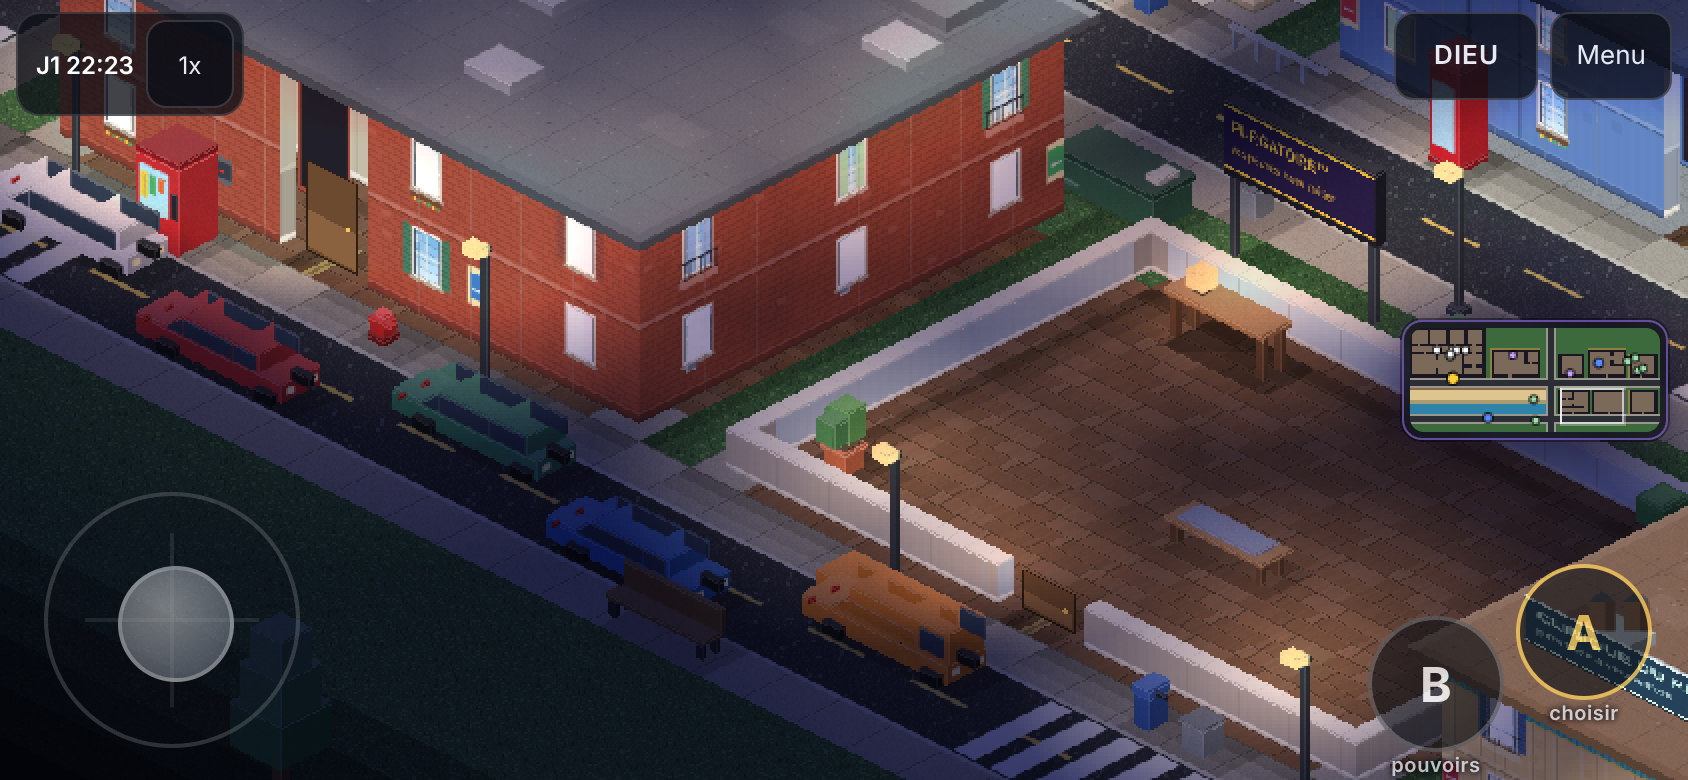
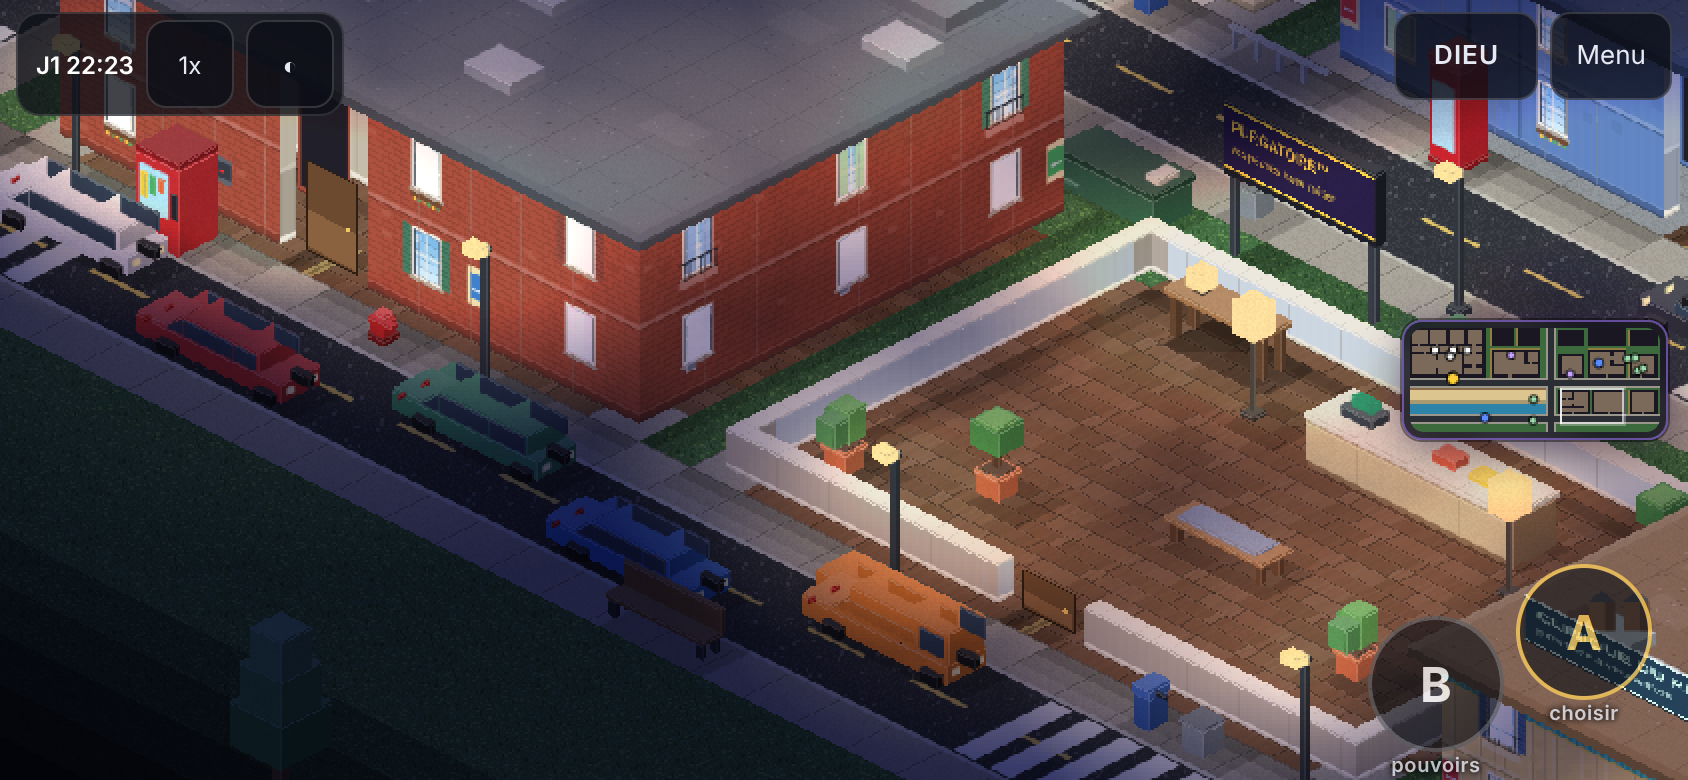
Noria Beach 2.0 : hôtel 5 étages (balcons filants, rooftop avec piscine, néon or), bar devenu ZINC CLUB (néons rose/cyan, ambiance violette), îlots d'arrière-plan, mode Dieu sans joystick + masquage de l'interface
Claude-Session: https://claude.ai/code/session_01TgHL2ERFFt3nTP8cEL1RNQ

diff --git a/src/sim/layout.ts b/src/sim/layout.ts
@@ -24,17 +24,23 @@ const HOUSE: string[] = [
 export const W = 96;
 export const H = 40;
 /** Bâtiments : murs hauts sur les bords nord et ouest (vus de dos), bas ailleurs ; front = hauteur de façade. */
-export interface Building { name: string; x0: number; y0: number; x1: number; y1: number; front: number; kind?: 'home' | 'bar' | 'store' | 'police' | 'cafe' | 'apartment'; solid?: boolean; /** coque : bâtiment ancien dont la carte intérieure est fixe mais qui reçoit façade et toit */ shell?: boolean; h?: number; wall?: 'brick' | 'concrete' | 'beige' | 'blue' | 'cream'; roof?: string; title?: string; door?: [number, number] }
+export interface Building { name: string; x0: number; y0: number; x1: number; y1: number; front: number; kind?: 'home' | 'bar' | 'store' | 'police' | 'cafe' | 'apartment'; solid?: boolean; /** coque : bâtiment ancien dont la carte intérieure est fixe mais qui reçoit façade et toit */ shell?: boolean; /** identité : hôtel (étages, balcons, rooftop) ou club (néons) */ style?: 'hotel' | 'club'; /** îlot décoratif : façade et toit, pas d'entrée (la ville continue) */ decor?: boolean; h?: number; wall?: 'brick' | 'concrete' | 'beige' | 'blue' | 'cream'; roof?: string; title?: string; door?: [number, number] }
 export const BUILDINGS: Building[] = [
   { name: 'house', x0: 0, y0: 0, x1: 28, y1: 18, front: 24, kind: 'home', shell: true, h: 96, wall: 'cream', roof: '#b4573f', title: 'FOYER BONHEUR™', door: [16, 18] },
-  { name: 'bar', x0: 31, y0: 8, x1: 49, y1: 18, front: 44, kind: 'bar', shell: true, h: 84, wall: 'brick', roof: '#4a2c3a', title: 'LE ZINC', door: [38, 18] },
+  { name: 'bar', x0: 31, y0: 8, x1: 49, y1: 18, front: 44, kind: 'bar', shell: true, h: 84, wall: 'brick', roof: '#4a2c3a', title: 'ZINC CLUB', door: [38, 18], style: 'club' },
   // --- Centre-ville (V open world) : façades pleines, toits, murs qui s'abaissent quand on entre
   { name: 'store', x0: 57, y0: 10, x1: 66, y1: 18, front: 64, kind: 'store', solid: true, h: 84, wall: 'cream', roof: '#c9573f', title: 'MINI-MARCHÉ', door: [61, 18] },
   { name: 'police', x0: 68, y0: 8, x1: 82, y1: 18, front: 80, kind: 'police', solid: true, h: 112, wall: 'blue', roof: '#3c4d6e', title: 'COMMISSARIAT', door: [75, 18] },
   { name: 'cafe', x0: 84, y0: 10, x1: 94, y1: 18, front: 66, kind: 'cafe', solid: true, h: 84, wall: 'beige', roof: '#8a5a3a', title: 'CAFÉ CULPA', door: [88, 18] },
   { name: 'flats1', x0: 57, y0: 24, x1: 68, y1: 32, front: 100, kind: 'apartment', solid: true, h: 124, wall: 'brick', roof: '#6a6f7a', title: 'LES MOUETTES™', door: [62, 32] },
-  { name: 'flats2', x0: 70, y0: 24, x1: 82, y1: 32, front: 110, kind: 'apartment', solid: true, h: 136, wall: 'concrete', roof: '#5a606c', title: 'RÉSIDENCE ORION', door: [76, 32] },
+  { name: 'flats2', x0: 70, y0: 24, x1: 82, y1: 32, front: 150, kind: 'apartment', solid: true, h: 176, wall: 'cream', roof: '#2c3a4e', title: 'HÔTEL PACIFICA', door: [76, 32], style: 'hotel' },
   { name: 'flats3', x0: 84, y0: 24, x1: 94, y1: 32, front: 96, kind: 'apartment', solid: true, h: 112, wall: 'beige', roof: '#7a5a4a', title: 'LES TILLEULS', door: [89, 32] },
+  // --- îlots d'arrière-plan : la ville continue derrière les façades (pas d'entrée, murs pleins)
+  { name: 'blockN1', x0: 31, y0: 0, x1: 39, y1: 6, front: 90, kind: 'apartment', solid: true, decor: true, h: 100, wall: 'brick', roof: '#5a4a52' },
+  { name: 'blockN2', x0: 41, y0: 0, x1: 49, y1: 6, front: 120, kind: 'apartment', solid: true, decor: true, h: 132, wall: 'beige', roof: '#4a5568' },
+  { name: 'blockE1', x0: 57, y0: 1, x1: 66, y1: 6, front: 110, kind: 'apartment', solid: true, decor: true, h: 120, wall: 'concrete', roof: '#5a606c' },
+  { name: 'blockE2', x0: 68, y0: 0, x1: 82, y1: 6, front: 150, kind: 'apartment', solid: true, decor: true, h: 160, wall: 'cream', roof: '#38445a' },
+  { name: 'blockE3', x0: 84, y0: 1, x1: 94, y1: 6, front: 96, kind: 'apartment', solid: true, decor: true, h: 108, wall: 'brick', roof: '#6a4a40' },
 ];
 export const OUTDOOR = 'srgynzq';
 /** Pièces des nouveaux bâtiments : M épicerie, Q commissariat, C cellule, T café, N/O/P halls d'immeubles (une lettre par pièce : l'éclairage se calcule par lettre). */
@@ -77,7 +83,7 @@ function applyCity(g: string[][]) {
   // bâtiments : murs sur le pourtour, sol d'une lettre unique, porte « X » sur la façade sud
   for (const b of BUILDINGS) {
     if (!b.solid) continue; const room = ({ store: 'M', police: 'Q', cafe: 'T' } as Record<string, string>)[b.kind!] ?? ({ flats1: 'N', flats2: 'O', flats3: 'P' } as Record<string, string>)[b.name];
-    rect(b.x0, b.y0, b.x1, b.y1, '#'); rect(b.x0 + 1, b.y0 + 1, b.x1 - 1, b.y1 - 1, room); if (b.door) set(b.door[0], b.door[1], 'X');
+    rect(b.x0, b.y0, b.x1, b.y1, '#'); if (!b.decor) rect(b.x0 + 1, b.y0 + 1, b.x1 - 1, b.y1 - 1, room); if (b.door) set(b.door[0], b.door[1], 'X');
   }
   // « Les Mouettes » : le rez-de-chaussée est un appartement habitable (séjour-cuisine j, chambre m, salle de bains v) derrière un couloir d'entrée N
   rect(58, 30, 67, 30, '#'); set(67, 30, 'X'); rect(62, 25, 62, 29, '#'); set(62, 28, 'X'); rect(58, 27, 61, 27, '#'); set(60, 27, 'X');
@@ -134,8 +140,8 @@ export function furniture(): FurnPlacement[] {
   // --- Rue, trottoirs, jardin
   for (const x of [5, 12, 22, 29, 37, 45]) f.push(P('streetlamp', x, 22));
   f.push(P('street_bench', 8, 22), P('street_bench', 26, 22), P('street_bench', 41, 22), P('bin', 20, 22), P('bin', 34, 22), P('bar_sign', 40, 19, { id: 'bar_sign' }));
-  for (const [x, y] of [[30, 2], [30, 6], [30, 12], [30, 16], [51, 3], [51, 9], [51, 15], [34, 3], [40, 5], [46, 2]]) f.push(P('tree', x, y, { style: x + y }));
-  for (const [x, y] of [[29, 9], [29, 14], [50, 6], [50, 12], [35, 6], [43, 4], [3, 23], [10, 23], [18, 23], [27, 23], [35, 23], [44, 23], [50, 23]]) f.push(P('bush', x, y, { style: x * 3 + y }));
+  for (const [x, y] of [[30, 2], [30, 6], [30, 12], [30, 16], [51, 3], [51, 9], [51, 15], [29, 3], [29, 6], [50, 3]]) f.push(P('tree', x, y, { style: x + y }));
+  for (const [x, y] of [[29, 9], [29, 14], [50, 6], [50, 12], [29, 12], [50, 9], [3, 23], [10, 23], [18, 23], [27, 23], [35, 23], [44, 23], [50, 23]]) f.push(P('bush', x, y, { style: x * 3 + y }));
   // --- Épicerie (x58..65, y11..17) : rayons, caisse
   f.push(P('shelf3', 58, 11, { id: 'shelf_a' }), P('shelf4', 62, 11, { id: 'shelf_b' }), P('shelf3', 59, 14, { id: 'shelf_c' }), P('shop_counter', 62, 16, { id: 'shop_counter' }), P('plant', 65, 17, { style: 1 }), P('bin', 58, 17));
   // --- Commissariat (x69..81, y9..17) : accueil, bureaux, cellule
@@ -167,6 +173,8 @@ export function furniture(): FurnPlacement[] {
   f.push(P('hydrant', 59, 19), P('mailbox', 65, 19), P('vending', 78, 19), P('phone_booth', 71, 19), P('kiosk', 84, 19), P('planter', 91, 19, { style: 1 }), P('bike_rack', 67, 19), P('planter', 57, 19, { style: 3 }));
   f.push(P('billboard', 71, 23, { style: 0 }), P('billboard', 85, 23, { style: 4 }), P('billboard', 60, 23, { style: 2 }), P('dumpster', 68, 23), P('billboard', 13, 23, { style: 1 }), P('billboard', 46, 23, { style: 5 }));
   [[62, 35, 0], [70, 35, 1], [86, 35, 2], [66, 34, 3], [90, 34, 5], [74, 34, 6], [58, 34, 4]].forEach(([x, y, st]) => f.push(P('car_p', x, y, { style: st })));
+  // hall de l'hôtel (ajouté en fin de liste : ne décale aucun meuble des anciennes parties)
+  f.push(P('shop_counter', 76, 26, { id: 'hotel_desk' }), P('floor_lamp', 74, 26), P('floor_lamp', 80, 27), P('plant', 73, 30, { style: 1 }), P('plant', 80, 30, { style: 0 }));
   f.push(P('hydrant', 64, 33), P('mailbox', 79, 33), P('planter', 85, 33, { style: 0 }), P('vending', 60, 33), P('hydrant', 92, 36));
   return f;
 }

diff --git a/src/art/city.ts b/src/art/city.ts
@@ -23,7 +23,7 @@ export function adCanvas(ad: number, w = 128, h = 40): HTMLCanvasElement {
 /** Toit d'un bâtiment de w x d cases : retourne le canevas et le décalage de son coin haut-gauche par rapport à toScreen(x0, y0) (au niveau du sol, avant d'ajouter la hauteur). */
 export function roofCanvas(w: number, d: number, colorHex: string, seed: number, style: RoofStyle = 'flat', extras = 'ac', ad = -1): { cv: HTMLCanvasElement; ox: number; oy: number } {
   const key = `${w}|${d}|${colorHex}|${seed}|${style}|${extras}|${ad}`; const hit = cache.get(key); if (hit) return hit;
-  const base = hex(colorHex); const PAD = style === 'hip' ? Math.min(w, d) * 9 + 8 : 8 + (ad >= 0 ? 52 : 0) + (extras === 'mast' ? 30 : 0) + (extras === 'tank' ? 18 : 0);
+  const base = hex(colorHex); const PAD = style === 'hip' ? Math.min(w, d) * 9 + 8 : 8 + (ad >= 0 ? 52 : 0) + (extras === 'mast' ? 30 : 0) + (extras === 'tank' ? 18 : 0) + (extras === 'terrace' ? 14 : 0);
   const P = (x: number, y: number, z = 0) => ({ x: (x - y) * 32 + d * 32 + 4, y: (x + y) * 16 + 4 + PAD - z });
   const cv = canvas((w + d) * 32 + 8, (w + d) * 16 + 14 + PAD); const g = ctx2(cv);
   const lo = shade(base, -0.28), hi = shade(base, 0.16), mid = base;
@@ -65,6 +65,14 @@ export function roofCanvas(w: number, d: number, colorHex: string, seed: number,
   for (let k = 0; k < n; k++) { const bx = 0.8 + hash2(seed + k, 3) * (w - 2.2), by = 0.8 + hash2(seed + k, 7) * (d - 2.2); box(bx, by, 0.9, 0.7, 7, c(0.7, 0.72, 0.76)); line(g, { x: P(bx, by + 0.7).x, y: P(bx, by + 0.7).y - 7 }, { x: P(bx + 0.9, by + 0.7).x, y: P(bx + 0.9, by + 0.7).y - 7 }, c(0.95, 0.96, 0.98), 0.5); }
   box(w - 2.4, 0.7, 1.3, 1.2, 9, shade(mid, 0.1)); // sortie d'escalier
   if (extras === 'tank') { const t = P(1.6, d - 2.2); for (let k = 0; k < 2; k++) { const tx = t.x + k * 22, ty = t.y; poly(g, [{ x: tx - 8, y: ty }, { x: tx + 8, y: ty }, { x: tx + 8, y: ty - 18 }, { x: tx - 8, y: ty - 18 }], c(0.55, 0.38, 0.28)); poly(g, [{ x: tx + 2, y: ty }, { x: tx + 8, y: ty }, { x: tx + 8, y: ty - 18 }, { x: tx + 2, y: ty - 18 }], c(0.4, 0.27, 0.2)); poly(g, [{ x: tx - 9, y: ty - 18 }, { x: tx, y: ty - 25 }, { x: tx + 9, y: ty - 18 }], c(0.3, 0.3, 0.34)); } }
+  if (extras === 'terrace') { // rooftop d'hôtel : deck bois, piscine, parasols, transats, garde-corps vitré
+    const deck = c(0.62, 0.46, 0.3); poly(g, [P(0.6, 0.6), P(w - 0.6, 0.6), P(w - 0.6, d - 0.6), P(0.6, d - 0.6)], deck);
+    for (let i = 1; i < w - 1; i++) line(g, P(i, 0.6), P(i, d - 0.6), shade(deck, -0.14), 0.5);
+    const px0 = 1.6, py0 = 1.4, pw = Math.min(5, w - 4), pd = Math.min(3, d - 3); poly(g, [P(px0 - 0.2, py0 - 0.2), P(px0 + pw + 0.2, py0 - 0.2), P(px0 + pw + 0.2, py0 + pd + 0.2), P(px0 - 0.2, py0 + pd + 0.2)], c(0.9, 0.92, 0.95)); poly(g, [P(px0, py0), P(px0 + pw, py0), P(px0 + pw, py0 + pd), P(px0, py0 + pd)], c(0.25, 0.75, 0.9));
+    for (let k = 0; k < 4; k++) { const a = P(px0 + 0.4 + k * (pw / 4), py0 + 0.4 + (k % 2) * 0.8); line(g, a, { x: a.x + 5, y: a.y + 1 }, c(0.8, 0.95, 1), 0.7); }
+    for (let k = 0; k < 3; k++) { const u = P(w - 2.6 + (k % 2) * 0.1, 1.4 + k * 1.3); line(g, u, { x: u.x, y: u.y - 16 }, c(0.9, 0.9, 0.9)); poly(g, [{ x: u.x - 11, y: u.y - 16 }, { x: u.x + 11, y: u.y - 16 }, { x: u.x + 6, y: u.y - 22 }, { x: u.x - 6, y: u.y - 22 }], [c(0.95, 0.4, 0.4), c(0.98, 0.8, 0.35), c(0.35, 0.75, 0.85)][k]); const l = P(w - 3.8, 1.4 + k * 1.3); poly(g, [{ x: l.x - 8, y: l.y }, { x: l.x + 8, y: l.y + 3 }, { x: l.x + 8, y: l.y - 1 }, { x: l.x - 8, y: l.y - 4 }], c(0.96, 0.96, 0.98)); }
+    line(g, P(0.2, d - 0.2), P(w - 0.2, d - 0.2), c(0.6, 0.9, 0.95)); line(g, P(w - 0.2, 0.2), P(w - 0.2, d - 0.2), c(0.6, 0.9, 0.95)); line(g, P(w / 2 - 2, d - 0.5), P(w / 2 + 2, d - 0.5), c(1, 0.45, 0.8));
+  }
   if (extras === 'mast') { const m = P(w * 0.5, d * 0.5); line(g, m, { x: m.x, y: m.y - 38 }, c(0.8, 0.82, 0.86)); for (let k = 0; k < 3; k++) line(g, { x: m.x - 8 + k, y: m.y - 14 - k * 8 }, { x: m.x + 8 - k, y: m.y - 14 - k * 8 }, c(0.8, 0.82, 0.86)); poly(g, [{ x: m.x - 1, y: m.y - 42 }, { x: m.x + 2, y: m.y - 42 }, { x: m.x + 2, y: m.y - 39 }, { x: m.x - 1, y: m.y - 39 }], c(0.95, 0.2, 0.2)); }
   if (ad >= 0) { // panneau publicitaire sur pieds, face sud-ouest
     const bw = Math.min(5, w - 3), a0 = P(1.4, d - 0.9), a1 = P(1.4 + bw, d - 0.9); const hb = 28, z0 = 12; const ac = adCanvas(ad, 128, 40);

diff --git a/src/art/facade.ts b/src/art/facade.ts
@@ -6,7 +6,7 @@ const c = (r: number, g: number, b: number): C => [r, g, b];
 export type Material = 'brick' | 'concrete' | 'plaster' | 'cream' | 'blue' | 'deco' | 'seaside';
 export type Pane = 'none' | 'shop' | 'win';
 export interface ExtSpec {
-  m: Material; k: 'store' | 'cafe' | 'bar' | 'police' | 'apartment' | 'home';
+  m: Material; k: 'store' | 'cafe' | 'bar' | 'police' | 'apartment' | 'home' | 'hotel';
   pane: Pane; v: number; /** variante (déterministe par cellule) */
   floors: number; /** nombre d'étages visibles */
   poster: number; /** 0 = rien ; sinon motif d'affiche / tag */
@@ -22,7 +22,7 @@ const CURT: C[] = [c(0.95, 0.9, 0.78), c(0.86, 0.5, 0.5), c(0.6, 0.72, 0.9), c(0
 
 /** Hauteur de la bande de sol (plinthe/vitrine) et des étages. */
 export function storeys(h: number, k: ExtSpec['k']) {
-  const floors = k === 'apartment' ? (h >= 130 ? 3 : 2) : k === 'home' ? (h >= 90 ? 2 : 1) : k === 'police' ? (h >= 100 ? 2 : 1) : 1;
+  const floors = k === 'hotel' ? (h >= 160 ? 5 : 4) : k === 'apartment' ? (h >= 130 ? 3 : 2) : k === 'home' ? (h >= 90 ? 2 : 1) : k === 'police' ? (h >= 100 ? 2 : 1) : 1;
   const top = h - 8; const sh = (top - 6) / floors; return { floors, sh };
 }
 
@@ -116,12 +116,18 @@ export function drawExterior(fp: FP, h: number, base: C, spec: ExtSpec, night = 
   for (let f = 1; f < floors; f++) { const z = 6 + f * sh - 3; fp(0, 1, z, z + 3, shade(base, 0.2)); fp(0, 1, z - 1, z, shade(base, -0.28)); }
   fp(0, 1, h - 7, h - 3, shade(base, 0.2)); fp(0, 1, h - 3, h, shade(base, 0.32)); fp(0, 1, h - 8, h - 7, shade(base, -0.3));
   for (let d = 0; d < 8; d++) fp(d / 8 + 0.01, d / 8 + 0.06, h - 10, h - 8, shade(base, 0.12));
+  // néons de façade : club (rose / cyan) et hôtel (or)
+  if (spec.k === 'bar') { fp(0, 1, h - 12, h - 10, c(1, 0.3, 0.75)); fp(0, 1, 26, 27.4, c(0.4, 0.9, 1)); for (let u = 0.1; u < 1; u += 0.3) fp(u, u + 0.03, 28, h - 14, c(0.7, 0.35, 1)); }
+  if (spec.k === 'hotel') { fp(0, 1, h - 12, h - 10, c(1, 0.78, 0.35)); fp(0, 1, 6, 8, c(0.95, 0.8, 0.4)); }
   // ouvertures
   const ps = panes(spec, h);
   if (spec.pane === 'shop') storefront(fp, h, spec, ps[0]);
   else if (spec.pane === 'win') {
     ps.forEach((p, i) => windowFrame(fp, p, spec.v + i * 5, night));
-    if ((spec.k === 'apartment') && floors > 1 && spec.v % 3 === 0) { // balcon à l'étage
+    if (spec.k === 'hotel') { // balcon filant à chaque étage, garde-corps vitré, stores
+      ps.forEach((p, i) => { if (i === 0) return; fp(0.08, 0.92, p.zb - 8, p.zb - 3, shade(base, 0.25)); fp(0.08, 0.92, p.zb - 3, p.zb - 2, shade(base, -0.4)); fp(0.08, 0.92, p.zb - 2, p.zb + 6, c(0.6, 0.85, 0.9), 0.35); fp(0.08, 0.92, p.zb + 6, p.zb + 7.4, c(0.85, 0.7, 0.3));
+        if ((spec.v + i) % 3 === 0) { fp(0.14, 0.86, p.zt, p.zt + 3, [c(0.9, 0.45, 0.4), c(0.3, 0.7, 0.75), c(0.95, 0.8, 0.4)][(spec.v + i) % 3]); } });
+    } else if ((spec.k === 'apartment') && floors > 1 && spec.v % 3 === 0) { // balcon à l'étage
       const p = ps[ps.length - 1]; fp(0.12, 0.88, p.zb - 8, p.zb - 3, shade(base, 0.3)); fp(0.12, 0.88, p.zb - 3, p.zb - 2, shade(base, -0.4));
       for (let u = 0.14; u < 0.88; u += 0.1) fp(u, u + 0.02, p.zb - 3, p.zb + 7, c(0.15, 0.16, 0.2)); fp(0.12, 0.88, p.zb + 7, p.zb + 8.4, c(0.15, 0.16, 0.2));
     }

diff --git a/src/view/lighting.ts b/src/view/lighting.ts
@@ -33,8 +33,8 @@ export class Lighting {
       const rad = r === 'h' ? 330 : (Math.max(sw, sh) * 0.5 + 2.6) * 46;
       for (const p of pts) { const s = toScreen(p.x, p.y); this.lights.push({ x: s.x, y: s.y - 34, r: rad, color: r === 'B' ? 0xff9a55 : 0xffd694, energy: 0, room: r, kind: 'room' }); }
     }
-    const NEON: Record<string, number> = { bar: 0xff4fb0, cafe: 0xffb347, store: 0x59f0a0, police: 0x5b8cff, apartment: 0xffd694 };
-    for (const b of L.BUILDINGS) { if (!b.door || !b.title || !b.solid) continue; const s = toScreen(b.door[0] + 0.5, b.door[1] + 1.2); const col = NEON[b.kind ?? 'apartment'] ?? 0xffd694; this.lights.push({ x: s.x, y: s.y - 46, r: b.kind === 'apartment' ? 90 : 150, color: col, energy: 0, kind: 'shopneon', room: b.kind ?? '' }); }
+    const NEON: Record<string, number> = { hotel: 0xffc86b, club: 0xff3fd0, bar: 0xff4fb0, cafe: 0xffb347, store: 0x59f0a0, police: 0x5b8cff, apartment: 0xffd694 };
+    for (const b of L.BUILDINGS) { if (!b.door || !b.title || !(b.solid || b.style === 'club')) continue; const s = toScreen(b.door[0] + 0.5, b.door[1] + 1.2); const col = NEON[b.style ?? b.kind ?? 'apartment'] ?? 0xffd694; this.lights.push({ x: s.x, y: s.y - 46, r: b.style === 'hotel' ? 200 : b.style === 'club' ? 230 : b.kind === 'apartment' ? 90 : 150, color: col, energy: 0, kind: 'shopneon', room: b.kind ?? '' }); }
     for (const f of world.furn) {
       const d = FURN[f.def];
       if (d.light) { const s = toScreen(f.x + f.w * 0.5, f.y + f.d * 0.5); const kind = f.def === 'nightstand' ? 'nightstand' : f.def === 'streetlamp' ? 'street' : f.def === 'bar_sign' ? 'sign' : f.def === 'jukebox' ? 'juke' : f.def === 'tiki_bar' || f.def === 'icecream' ? 'neon' : 'lamp'; this.lights.push({ x: s.x, y: s.y - d.light.h, r: 165 * d.light.r, color: f.def === 'icecream' ? 0x6fe3ff : kind === 'neon' ? 0xff5ec8 : kind === 'sign' ? 0xff5ec8 : kind === 'juke' ? 0xff4fa0 : kind === 'street' ? 0xffe2a0 : 0xffd185, energy: 0, room: L.roomAt(f.x, f.y), kind, fid: f.i }); }
@@ -76,7 +76,8 @@ export class Lighting {
     this.active = 0;
     for (const l of this.lights) {
       if (l.energy < 0.02) continue; this.active++;
-      let col = l.color; if (l.kind === 'tv' && this.tvColor) col = Phaser.Display.Color.GetColor(this.tvColor.r, this.tvColor.g, this.tvColor.b);
+      let col = l.color; if (l.kind === 'room' && l.room === 'B') { const m = 0.5 + 0.5 * Math.sin(this.flick * 0.35); const r = Math.round(0xff * (1 - m) + 0x8a * m), gg = Math.round(0x4f * (1 - m) + 0x5c * m), bb = Math.round(0xb0 * (1 - m) + 0xff * m); col = (r << 16) | (gg << 8) | bb; }
+      if (l.kind === 'tv' && this.tvColor) col = Phaser.Display.Color.GetColor(this.tvColor.r, this.tvColor.g, this.tvColor.b);
       const sx = (l.x - wv.x) * z * RS, sy = (l.y - wv.y) * z * RS; const s = (l.r / 128) * z * RS;
       if (sx < -l.r * z * RS || sy < -l.r * z * RS || sx > this.scene.scale.width * RS + l.r * z * RS || sy > this.scene.scale.height * RS + l.r * z * RS) continue;
       this.stamp.setTint(col).setAlpha(Math.min(1, l.energy)).setScale(s, s * 0.62).setOrigin(0.5, 0.5);

diff --git a/src/view/scene.ts b/src/view/scene.ts
@@ -202,17 +202,17 @@ export class GameScene extends Phaser.Scene {
   }
   /** Description d'une case de façade (matériau, vitrine ou fenêtres, affiches) : déterministe, donc stable entre deux sessions. */
   extSpec(b: L.Building, cx: number, cy: number, se: boolean, h: number): ExtSpec {
-    const k = (b.kind === 'home' ? 'home' : b.kind) as ExtSpec['k']; const m = ({ brick: 'brick', concrete: 'concrete', beige: b.kind === 'apartment' ? 'deco' : b.kind === 'cafe' ? 'seaside' : 'plaster', cream: 'plaster', blue: 'blue' } as Record<string, ExtSpec['m']>)[b.wall ?? 'concrete'];
+    const k = (b.style === 'hotel' ? 'hotel' : b.kind === 'home' ? 'home' : b.kind) as ExtSpec['k']; const m = ({ brick: 'brick', concrete: 'concrete', beige: b.kind === 'apartment' ? 'deco' : b.kind === 'cafe' ? 'seaside' : 'plaster', cream: 'plaster', blue: 'blue' } as Record<string, ExtSpec['m']>)[b.wall ?? 'concrete']; const mm: ExtSpec['m'] = b.style === 'hotel' ? 'deco' : m;
     const front = !se; const rel = se ? cy - b.y0 : cx - b.x0; const len = se ? b.y1 - b.y0 : b.x1 - b.x0; const dh = hashStr(b.name);
     const dx = b.door ? Math.abs((front ? cx : cy) - (front ? b.door[0] : b.door[1])) : 99; const nearDoor = front && dx <= 1;
     const v = Math.floor(hash2(cx * 3 + 1, cy * 5 + 2, dh) * 16); let pane: ExtSpec['pane'] = 'none'; let poster = 0;
     const shopKind = k === 'store' || k === 'cafe' || k === 'bar';
     if (rel > 0 && rel < len) {
       if (shopKind) { if (front && !nearDoor && rel % 2 === 1) pane = 'shop'; else if (!front && rel % 3 === 1) pane = 'win'; }
-      else if (rel % 3 === 1 && !nearDoor) pane = 'win';
+      else if (k === 'hotel') { if (rel % 2 === 1 && !(front && nearDoor)) pane = 'win'; } else if (rel % 3 === 1 && !nearDoor) pane = 'win';
     }
     if (pane === 'none' && !nearDoor) { const q = Math.floor(hash2(cx + 17, cy + 29, dh) * 9); poster = [0, 1, 0, 2, 0, 3, 0, 4, 0][q]; }
-    return { m, k, pane, v, floors: storeys(h, k).floors, poster, cell: cx * 31 + cy * 17, awning: dh };
+    return { m: mm, k, pane, v, floors: storeys(h, k).floors, poster, cell: cx * 31 + cy * 17, awning: dh };
   }
   /** Bâtiment dans lequel se trouve le point d'attention (avatar en mode humain, habitant observé en mode Dieu) : ses murs avant s'abaissent, son toit disparaît. */
   insideBuilding = ''; peek = false;
@@ -281,6 +281,7 @@ export class GameScene extends Phaser.Scene {
   /** Style de toit par bâtiment : coque d'habitation à quatre pans, immeubles plats avec réservoirs, commissariat avec mât, panneaux publicitaires satiriques. */
   private roofPlan(b: L.Building): { style: RoofStyle; extras: string; ad: number } {
     const dh = hashStr(b.name);
+    if (b.style === 'hotel') return { style: 'flat', extras: 'terrace', ad: -1 };
     switch (b.kind) {
       case 'home': return { style: 'hip', extras: '', ad: -1 };
       case 'bar': return { style: 'flat', extras: 'ac', ad: 4 };

diff --git a/tests/freelife.test.ts b/tests/freelife.test.ts
@@ -49,11 +49,11 @@ describe('2-3. toucher pour se déplacer : traverser une rue, contourner un bât
     expect(Math.hypot(av.pos.x - 10.5, av.pos.y - 22.5)).toBeLessThan(0.5); expect(av.state).toBe('idle');
   });
   it('contourne le bar (aucune case de mur traversée)', () => {
-    const w = mk(); const av = w.avatar; put(w, av, 29.5, 15.5); const target = { x: 41, y: 6 };
-    expect(lineClear({ x: 29.5, y: 15.5 }, { x: 41.5, y: 6.5 })).toBe(false); // la ligne droite traverse le bar
+    const w = mk(); const av = w.avatar; put(w, av, 29.5, 15.5); const target = { x: 40, y: 7 };
+    expect(lineClear({ x: 29.5, y: 15.5 }, { x: 40.5, y: 7.5 })).toBe(false); // la ligne droite traverse le bar
     walkPlan(w, target); let len = 0, prev = { ...av.pos };
     tick(w, 40, () => { expect(cellOk(w, av.pos)).toBe(true); len += Math.hypot(av.pos.x - prev.x, av.pos.y - prev.y); prev = { ...av.pos }; });
-    expect(Math.hypot(av.pos.x - 41.5, av.pos.y - 6.5)).toBeLessThan(0.5); expect(len).toBeGreaterThan(Math.hypot(12, 9) + 1);
+    expect(Math.hypot(av.pos.x - 40.5, av.pos.y - 7.5)).toBeLessThan(0.5); expect(len).toBeGreaterThan(Math.hypot(11, 8) + 1);
   });
   it('un toucher sur un mur vise la case libre voisine ; hors carte : refusé', () => {
     const w = mk(); const av = w.avatar; put(w, av, 10.5, 19.5);

diff --git a/tests/city.test.ts b/tests/city.test.ts
@@ -25,7 +25,7 @@ describe('1. un quartier extérieur cohérent et des bâtiments à entrées fonc
     }
   });
   it('chaque entrée est une porte réelle sur la façade, et mène à la bonne pièce', () => {
-    for (const b of L.BUILDINGS.filter((x) => x.solid)) { const [dx, dy] = b.door!; expect(L.isDoor(dx, dy)).toBe(true); expect(L.isOutdoor(dx, dy + 1)).toBe(true); expect('MQTNOP'.includes(L.roomAt(dx, dy))).toBe(true); expect(L.buildingAt(dx, dy)?.name).toBe(b.name); }
+    for (const b of L.BUILDINGS.filter((x) => x.solid && !x.decor)) { const [dx, dy] = b.door!; expect(L.isDoor(dx, dy)).toBe(true); expect(L.isOutdoor(dx, dy + 1)).toBe(true); expect('MQTNOP'.includes(L.roomAt(dx, dy))).toBe(true); expect(L.buildingAt(dx, dy)?.name).toBe(b.name); }
     expect(L.roomAt(61, 12)).toBe('M'); expect(L.roomAt(75, 12)).toBe('Q'); expect(L.roomAt(88, 13)).toBe('T'); expect(L.roomAt(79, 11)).toBe('C');
   });
   it('aucun meuble dans un mur ni sur une porte ; tous les emplacements d\'usage sont atteignables', () => {
